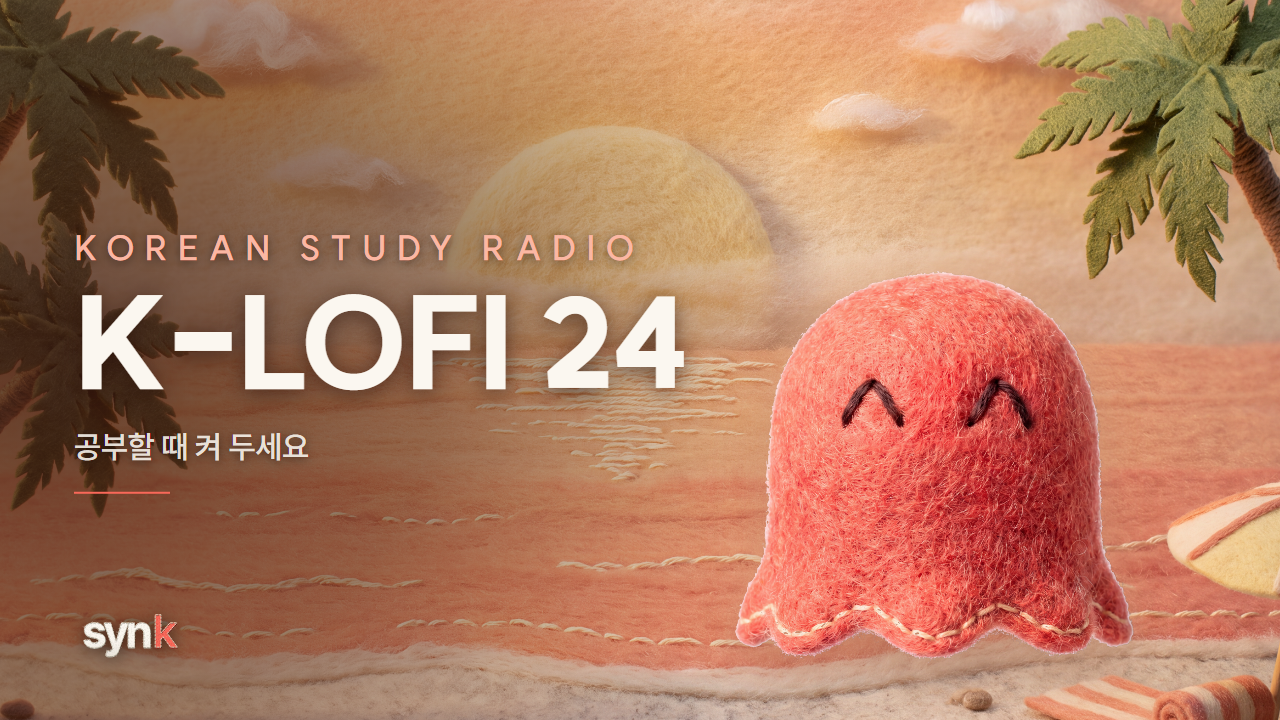
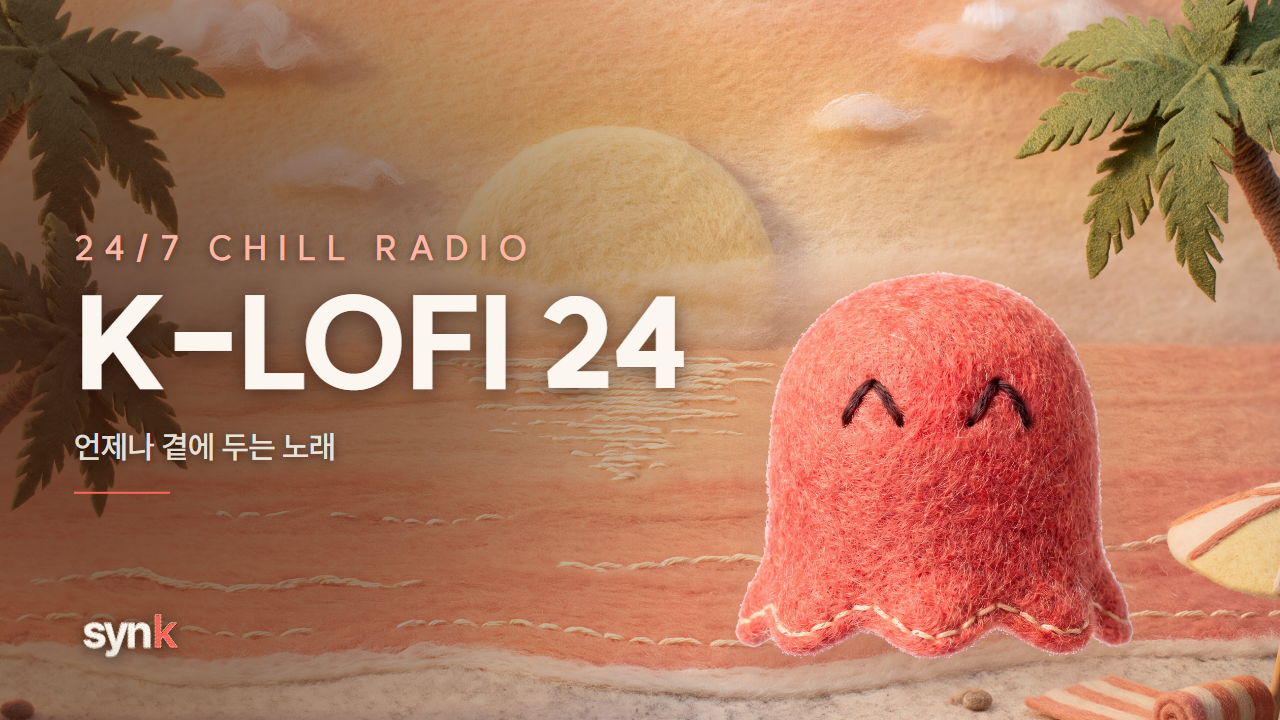
라디오 문안에서 «공부·한국어» 조건을 걷었다 — 썸네일·방송 제목·소개 (유호 지시 09-08)
Session-Id: local_2c651fbd-fcf4-4fe6-9478-bfe8beb23426

Changed region(s): [[0.0625, 0.3056, 0.5, 0.3667], [0.0625, 0.5806, 0.2812, 0.6417]]

diff --git a/bots/오버레이/방송지킴이.js b/bots/오버레이/방송지킴이.js
@@ -33,11 +33,20 @@ const 장부길 = process.env.RADIO_GUARD_STATE || '/opt/synk-radio/방송지킴
 const 표지길 = process.env.RADIO_THUMB || '/opt/synk-radio/무대덮개/썸네일.png';
 const 한도 = 4;
 
-const 방송제목 = 'K-LOFI 24 · 한국어 공부할 때 켜 두는 라디오 🎧';
-const 방송소개 = '한국어 공부할 때 켜 두는 로파이 라디오입니다. 24시간 꺼지지 않아요.\n\nSYNK LAB — 몽골 학생을 위한 한국어 학원';
+/* 🔴 이 값들은 «두 곳»이 안다 — tools/라디오방송열쇠.js 와 bots/오버레이/방송지킴이.js.
+   방송지킴이는 서버(/opt/synk-radio/)에서 돌아 tools/lib 를 못 읽어 공용 모듈로 못 묶었다.
+   ⇒ 한쪽만 고치면 갈린다. 고칠 때 반드시 둘 다 고친다(기억 constant-known-in-two-places).
+   🆕 09-08 유호 지시 — «공부»와 «한국어»를 조건으로 걸지 않는다(결정 원장 09-08).
+      옛 판 = 「K-LOFI 24 · 한국어 공부할 때 켜 두는 라디오」.
+      까닭 = 카페에서 틀어도 되는 자리인데 조건을 달면 그 밖의 듣는 사람을 스스로 잘라 낸다. */
+const 방송제목 = 'K-LOFI 24 · lofi beats to chill to 🎧';
+const 방송소개 = '언제나 곁에 두는 노래. 24시간 꺼지지 않습니다.\n여기 나오는 노래는 전부 우리가 직접 만들었습니다.\n\nSYNK LAB · 몽골 울란바토르';
 const 분류 = '27';
 const 꼬리표 = ['lofi', 'lofi hip hop', 'lofi radio', 'study music', '공부할 때 듣는 음악', '한국어 공부',
-  'korean study music', 'k-lofi', 'солонгос хэл', 'солонгос хэл сурах', 'chill beats', '24/7 radio'];
+  'korean study music', 'k-lofi', 'солонгос хэл', 'солонгос хэл сурах', 'chill beats', '24/7 radio',
+  /* 09-08 — 꼬리표는 «검색 그물»이지 «듣는 조건»이 아니라 study 계열을 안 지우고 넷을 더했다.
+     지우면 이미 걸리던 검색이 죽는다. */
+  'cafe music', 'relaxing music', 'sleep music', 'work music'];
 
 const 이제 = () => new Date().toISOString().replace('T', ' ').slice(0, 19);
 const 말 = (...것) => console.log(`[방송지킴이 ${이제()}]`, ...것);

diff --git a/tools/라디오방송열쇠.js b/tools/라디오방송열쇠.js
@@ -32,8 +32,14 @@ const 서버 = 'synk@34.71.111.97';
 const 스트림이름 = 'SYNK 라디오24 상시';
 /* 🆕 09-08 이름 교체(유호 지시 · 커밋 e3c5ac1c9) — 「24시간 한국어 라디오」·「SYNK FM」은 옛 이름이다.
    lofi 는 세계가 실제로 검색하는 낱말이고, K- 가 한국어를 로마자로 세워 준다. */
-const 방송제목 = 'K-LOFI 24 · 한국어 공부할 때 켜 두는 라디오 🎧';
-const 방송소개 = '한국어 공부할 때 켜 두는 로파이 라디오입니다. 24시간 꺼지지 않아요.\n\nSYNK LAB — 몽골 학생을 위한 한국어 학원';
+/* 🔴 이 값들은 «두 곳»이 안다 — tools/라디오방송열쇠.js 와 bots/오버레이/방송지킴이.js.
+   방송지킴이는 서버(/opt/synk-radio/)에서 돌아 tools/lib 를 못 읽어 공용 모듈로 못 묶었다.
+   ⇒ 한쪽만 고치면 갈린다. 고칠 때 반드시 둘 다 고친다(기억 constant-known-in-two-places).
+   🆕 09-08 유호 지시 — «공부»와 «한국어»를 조건으로 걸지 않는다(결정 원장 09-08).
+      옛 판 = 「K-LOFI 24 · 한국어 공부할 때 켜 두는 라디오」.
+      까닭 = 카페에서 틀어도 되는 자리인데 조건을 달면 그 밖의 듣는 사람을 스스로 잘라 낸다. */
+const 방송제목 = 'K-LOFI 24 · lofi beats to chill to 🎧';
+const 방송소개 = '언제나 곁에 두는 노래. 24시간 꺼지지 않습니다.\n여기 나오는 노래는 전부 우리가 직접 만들었습니다.\n\nSYNK LAB · 몽골 울란바토르';
 
 function 환경읽기() {
   const 표 = {};

diff --git a/tools/라디오배경굽기.js b/tools/라디오배경굽기.js
@@ -335,9 +335,12 @@ const 썸네일 = {
    *   못 읽는다 ②사람들이 실제로 검색하는 낱말(lofi)이 없다 ③장르가 안 보인다.
    *   `K-LOFI 24` 가 셋을 다 뒤집는다: lofi 는 전 세계가 검색하는 낱말 · K- 가 「한국어」를
    *   로마자로 나른다 · 24 는 안 꺼진다는 뜻이고 내부 이름 「라디오24」와도 이어진다. */
-  작은줄: 'KOREAN STUDY RADIO',
+  /* 🆕 09-08 두 번째 교체 (유호 지시 「공부에 한정하지마. 카페에서 틀어도 될수있게」) —
+   *   「KOREAN STUDY RADIO」·「공부할 때 켜 두세요」를 걷었다. 둘 다 «듣는 조건»을 달아
+   *   그 밖의 사람을 잘라 냈다. 이름 K-LOFI 24 는 산다 — K-lofi 는 장르 이름이지 조건이 아니다. */
+  작은줄: '24/7 CHILL RADIO',
   큰줄: 'K-LOFI 24',
-  받침줄: '공부할 때 켜 두세요',
+  받침줄: '언제나 곁에 두는 노래',
 };
 
 function 썸네일지면() {
